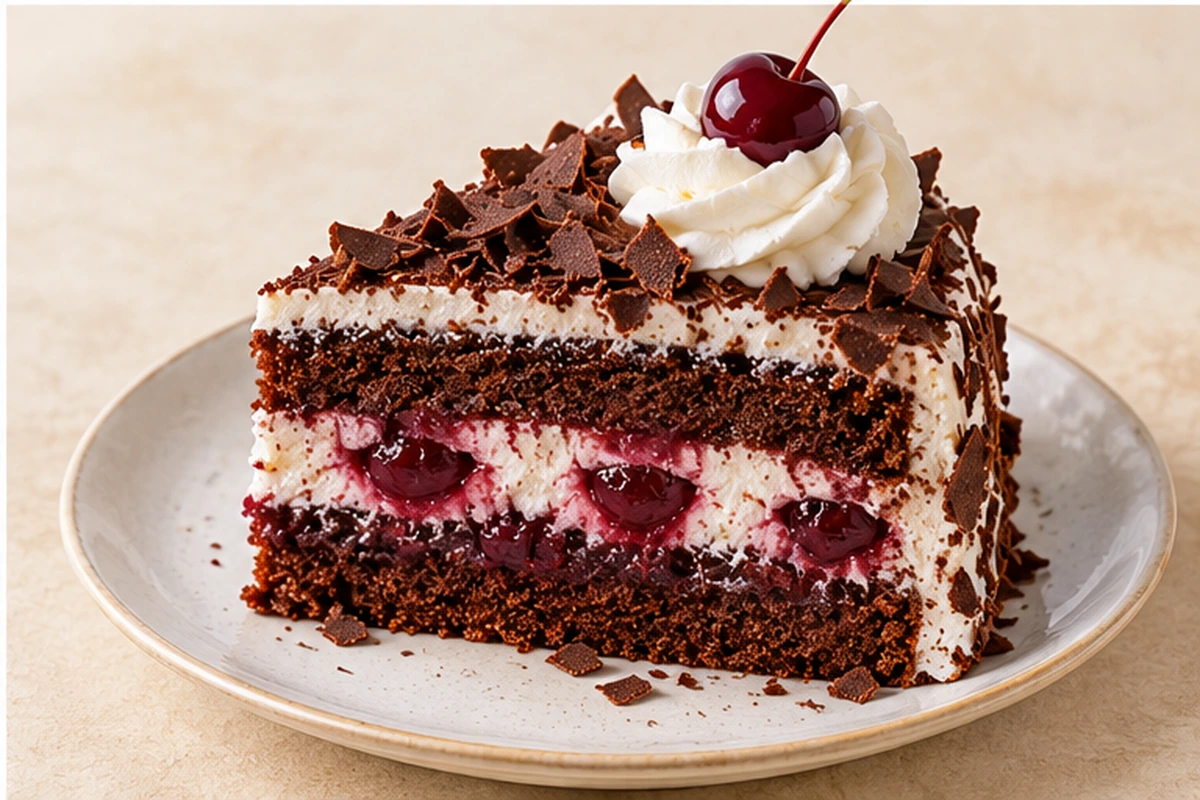
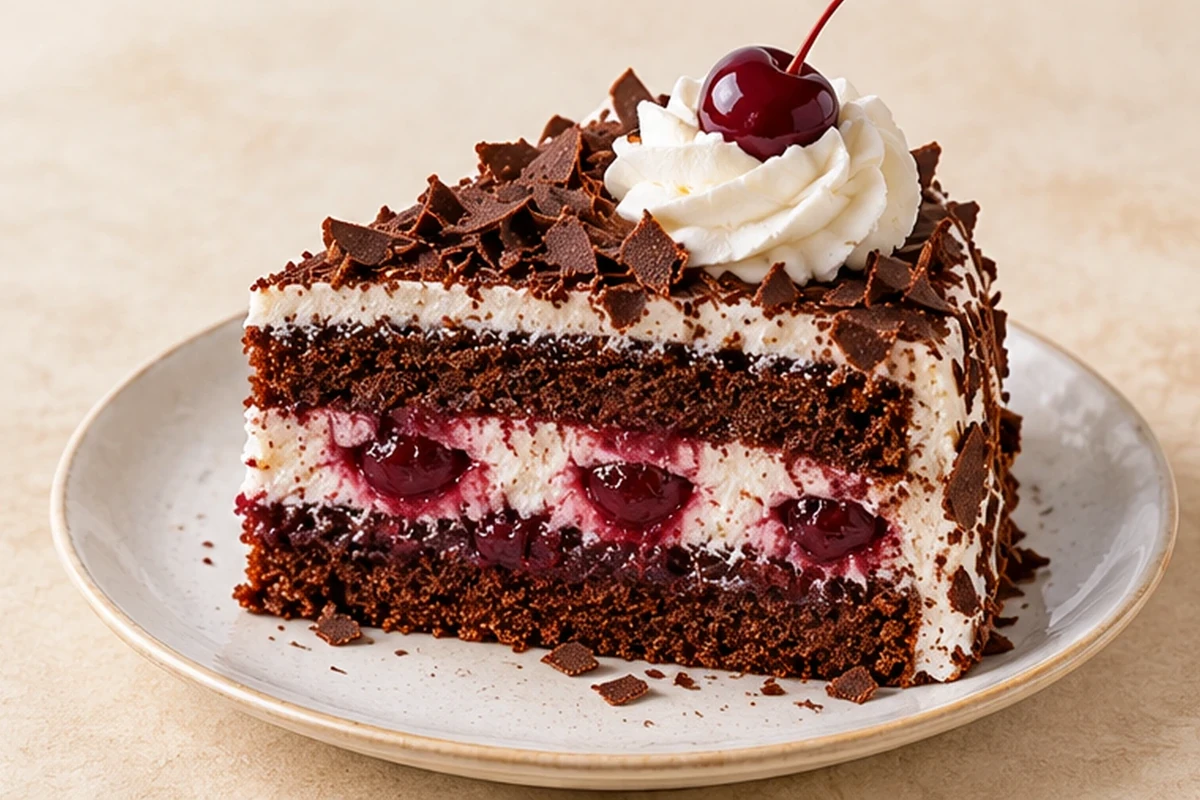
Unify Taste images to full-frame display across all Countries
- Make the shared Taste framing the full 3:2 frame (100%, contain, no
  inset, no second backing colour) for every Country. Previously 101
  Countries used an 80% inset on a tinted backing while 72 used full-frame.
- Remove Country-specific overrides (Panama 126%, Antigua & Barbuda 108%,
  United States 4:3 frame + 104%, Belize, Honduras, Nicaragua) so no
  approved artwork is enlarged or cropped.
- Trim baked-in white edge strips (3-6px) from Germany Taste 1-4 and
  Luxembourg Taste 1-3; assets stay 1200x800 WebP with no regeneration.

Verified: all 173 Country pages x 692 Taste cards on Desktop 1440,
Tablet 820 and Mobile 390 render the complete image edge to edge in a
3:2 frame; image hard gate and delivery audit pass.

Claude-Session: https://claude.ai/code/session_01DdsXUYkXT53r1hv3Uenpw1

diff --git a/assets/css/taste-image-framing.css b/assets/css/taste-image-framing.css
@@ -1,111 +1,27 @@
-/* Shared Country Taste artwork framing. Keep each approved single-dish illustration fully visible in its card; this stylesheet is part of the production Country CSS bundle. */
-.taste-card__image {
-  display: grid;
-  place-items: center;
-}
-.taste-card__img {
-  width: 80%;
-  height: 80%;
-  object-fit: contain;
-  object-position: center;
-}
+/* Shared Country Taste artwork framing. This stylesheet is part of the
+   production Country CSS bundle.
 
-/* Future Country 3:2 artwork uses its real source aspect and integral paper
-   ground. Legacy artwork has no opt-in and is rendered exactly as approved. */
-.taste-card__image--source-3x2 {
+   Every approved Taste illustration is delivered as a 3:2 raster with its own
+   integral paper ground. All Countries share one framing: the card frame keeps
+   the artwork's 3:2 aspect and the complete image fills it edge to edge, with no
+   inset, no enlargement/crop and no second backing colour. Do not add
+   Country-specific size, scale or offset overrides here; fix the asset instead. */
+.taste-card__image {
+  display: block;
   aspect-ratio: 3 / 2;
   background: transparent;
 }
-.taste-card__img--source-3x2 {
+.taste-card__img {
+  display: block;
   width: 100%;
   height: 100%;
   object-fit: contain;
   object-position: center;
-}
-
-/* Panama's approved 3:2 Taste illustrations include their own safe margins.
-   Do not inset them again or expose a different card backing. */
-.taste-card__img[src*="/panama/approved/food0"] {
-  width: 100%;
-  height: 100%;
-  object-fit: contain;
-}
-
-/* Sancocho's approved bowl needs a slightly higher crop at 126% to retain its base. */
-.taste-card__img[src*="/panama/approved/food01-sancocho.webp"] {
-  width: 126%;
-  height: 126%;
-  transform: translateY(-5%);
-}
-
-/* Antigua & Barbuda's approved 3:2 illustrations have integral paper grounds.
-   Enlarge only slightly beyond the frame and keep each image exactly centered so
-   the complete dish remains visible while the surrounding paper margin is reduced. */
-.taste-card__img[src*="/antiguabarbuda/approved/food-"] {
-  width: 108%;
-  height: 108%;
-  justify-self: center;
-  align-self: center;
-  object-fit: contain;
-  object-position: center center;
   transform: none;
 }
 
-/* Nicaragua's approved 1200x800 Taste illustrations include a warm paper ground
-   and safe margins. Fill the matching 3:2 frame without exposing its blue backing. */
-.taste-card__img[src*="/nicaragua/approved/food-"] {
-  width: 100%;
-  height: 100%;
-  object-fit: contain;
-}
-
-/* Approved US food artwork has an integral 4:3 paper ground. Match that frame
-   to eliminate the second backing color; trim only a minimal outer paper
-   margin so the full bowl rims, bowl bases, and pizza crust stay visible. */
-.taste-card__image:has(> .taste-card__img[src*="/unitedstates/approved/food-"]) {
-  aspect-ratio: 4 / 3;
-}
-.taste-card__img[src*="/unitedstates/approved/food-"] {
-  width: 100%;
-  height: 100%;
-  object-fit: contain;
-  object-position: center;
-  transform: scale(1.04);
-}
-
-/* Honduras's approved 1200x800 illustrations already include their paper ground.
-   Show the whole 3:2 artwork without the shared 80% inset and contrasting card backing. */
-.taste-card__img[src*="/honduras/approved/food-"] {
-  width: 100%;
-  height: 100%;
-  object-fit: contain;
-}
-
-/* Shared 4:3 Taste framing: use the artwork's own complete paper ground. */
+/* A delivered 4:3 raster (none currently in use) keeps its own aspect so the
+   whole artwork stays visible without a contrasting backing. */
 .taste-card__image--source-4x3 {
   aspect-ratio: 4 / 3;
-  background: transparent;
-}
-.taste-card__img--source-4x3 {
-  width: 100%;
-  height: 100%;
-  object-fit: contain;
-  object-position: center;
-}
-
-/* Belize's delivered 3:2 illustrations already contain their own paper ground.
-   Size the frame to the delivered image (also safe if the original 4:3 loads),
-   rather than shrinking it to 80% and revealing a contrasting backing. */
-.taste-card__image:has(> .taste-card__img[src*="/belize/approved/food-"]) {
-  display: block;
-  aspect-ratio: auto;
-  background: transparent;
-}
-.taste-card__img[src*="/belize/approved/food-"] {
-  display: block;
-  width: 100%;
-  height: auto;
-  object-fit: contain;
-  object-position: center;
-  transform: none;
 }
